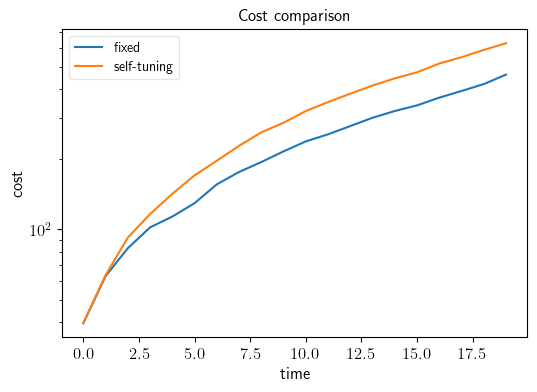
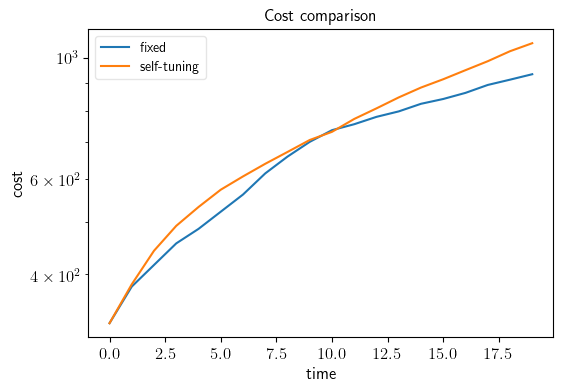
Code dump
Need to restructure code for architecture size

diff --git a/greedy_architecture_combined.py b/greedy_architecture_combined.py
@@ -41,19 +41,22 @@ class System:
         self.graph_initialize(graph_model)
         self.architecture = {'B': {}, 'C': {}}
         self.metric_model = {'type1': 'x', 'type2': 'scalar', 'type3': 'scalar'}
-        self.trajectory = {'X0': np.identity(self.dynamics['number_of_nodes']),
+        self.trajectory = {'X0': 10*np.identity(self.dynamics['number_of_nodes']),
                            'x': [], 'x_estimate': [], 'enhanced': [], 'u': [], 'error': [],
                            'cost': {'running': 0, 'switching': 0, 'control': 0, 'stage': 0, 'predicted': [], 'true': []},
-                           'P': [], 'E': [], 'P_enhanced': []}
+                           'P': 0, 'E': 0, 'P_enhanced': []}
         self.additive = {'W': 0.5*np.identity(self.dynamics['number_of_nodes']),
                          'V': 0.5*np.identity(self.dynamics['number_of_nodes'])}
+        self.simulation_parameters = {'T_sim': 100, 'T_predict': 30}
         self.initialize_initial_conditions(initial_conditions)
         self.noise = {}
         self.initialize_architecture(architecture)
-        if additive is not None:
-            self.initialize_additive_noise(additive)
-        self.enhanced_system_matrix()
-        self.model_name = "model_n"+str(self.dynamics['number_of_nodes'])+"_rho"+str(np.round(self.dynamics['rho'], decimals=2))
+        self.architecture['C']['cost']['R1'] = self.additive['V']
+        self.architecture['C']['cost']['Q'] = self.additive['W']
+        # if additive is not None:
+        #     self.initialize_additive_noise(additive)
+        # self.enhanced_system_matrix()
+        self.model_name = "model_n"+str(self.dynamics['number_of_nodes'])+"_rho"+str(np.round(self.dynamics['rho'], decimals=3))
 
     def graph_initialize(self, graph_model):
         connected_network_check = False
@@ -82,15 +85,17 @@ class System:
             self.dynamics['Adj'] += np.identity(self.dynamics['number_of_nodes'])
         self.dynamics['A'] = self.dynamics['Adj'] * graph_model['rho'] / np.max(np.abs(np.linalg.eigvals(self.dynamics['Adj'])))
         self.dynamics['rho'] = graph_model['rho']
+        self.dynamics['n_unstable'] = sum([1 for i in np.linalg.eigvals(self.dynamics['A']) if i >= 1])
 
     def initialize_architecture(self, architecture):
         architecture_model = {'min': 1, 'max': self.dynamics['number_of_nodes'],
                               'cost': {'Q': np.identity(self.dynamics['number_of_nodes']),
                                        'R1': np.identity(self.dynamics['number_of_nodes']),
-                                       'R2': 1,
-                                       'R3': 1},
+                                       'R2': 0,
+                                       'R3': 0},
                               'active': [],
                               'matrix': np.zeros((self.dynamics['number_of_nodes'], self.dynamics['number_of_nodes'])),
+                              'indicator': np.zeros(self.dynamics['number_of_nodes']),
                               'available': range(0, self.dynamics['number_of_nodes']),
                               'set': [],
                               'history': [],
@@ -141,13 +146,18 @@ class System:
         if architecture_type is None:
             architecture_type = ['B', 'C']
         for i in architecture_type:
-            self.architecture[i]['matrix'] = np.zeros(
-                (self.dynamics['number_of_nodes'], self.dynamics['number_of_nodes']))
+            self.architecture[i]['matrix'] = np.zeros((self.dynamics['number_of_nodes'], len(self.architecture[i]['active'])))
+            self.architecture[i]['indicator'] = np.zeros(self.dynamics['number_of_nodes'])
             for k in range(0, len(self.architecture[i]['active'])):
                 if i == 'B':
                     self.architecture[i]['matrix'][:, k] = self.architecture[i]['set'][self.architecture[i]['active'][k]]
                 elif i == 'C':
-                    self.architecture[i]['matrix'][k, :] = self.architecture[i]['set'][self.architecture[i]['active'][k]]
+                    self.architecture[i]['matrix'][:, k] = self.architecture[i]['set'][self.architecture[i]['active'][k]]
+                else:
+                    raise Exception('Check architecture type')
+                self.architecture[i]['indicator'][self.architecture[i]['active'][k]] = 1
+            if i == 'C':
+                self.architecture[i]['matrix'] = self.architecture[i]['matrix'].T
 
     def random_architecture(self, architecture_type=None, n_select=None):
         if architecture_type is None:
@@ -163,14 +173,14 @@ class System:
         for i in architecture_type:
             self.architecture[i]['history'] = [self.architecture[i]['active']]
 
-    def initialize_additive_noise(self, additive):
-        if additive == "normal":
-            self.additive = {'W': np.identity(self.dynamics['number_of_nodes']),
-                             'V': np.identity(self.dynamics['number_of_nodes'])}
-        else:
-            if additive is not None:
-                for i in additive:
-                    self.additive[i] = additive[i]
+    # def initialize_additive_noise(self, additive):
+    #     if additive == "normal":
+    #         self.additive = {'W': np.identity(self.dynamics['number_of_nodes']),
+    #                          'V': np.identity(self.dynamics['number_of_nodes'])}
+    #     else:
+    #         if additive is not None:
+    #             for i in additive:
+    #                 self.additive[i] = additive[i]
 
     def initialize_initial_conditions(self, initial_conditions=None):
         if initial_conditions is not None and 'X0' in initial_conditions:
@@ -185,6 +195,7 @@ class System:
 
     def noise_gen(self):
         self.noise['w'] = np.random.default_rng().multivariate_normal(np.zeros(self.dynamics['number_of_nodes']), self.additive['W'])
+        # self.noise['v'] = np.random.default_rng().multivariate_normal(np.zeros(self.dynamics['number_of_nodes']), np.diag(self.architecture['C']['indicator']) @ self.additive['V'])
         self.noise['v'] = np.random.default_rng().multivariate_normal(np.zeros(self.dynamics['number_of_nodes']), self.additive['V'])
         self.noise['enhanced_vector'] = np.concatenate((self.noise['w'], self.noise['v']))
 
@@ -213,42 +224,54 @@ class System:
             [self.dynamics['A'], -BK],
             [LC @ self.dynamics['A'], self.dynamics['A'] - BK - (LC @ self.dynamics['A'])]])
         self.noise['enhanced_noise_matrix'] = np.block([
-            [np.identity(self.dynamics['number_of_nodes']), np.zeros((self.dynamics['number_of_nodes'], self.dynamics['number_of_nodes']))],
-            [LC, LC]])
-        self.noise['enhanced_noise_expectation'] = self.noise['enhanced_noise_matrix'].T @ np.block([
-            [self.additive['W'], np.zeros((self.dynamics['number_of_nodes'], self.dynamics['number_of_nodes']))],
-            [np.zeros((self.dynamics['number_of_nodes'], self.dynamics['number_of_nodes'])), self.additive['V']]
-            ]) @ self.noise['enhanced_noise_matrix']
+            [np.identity(self.dynamics['number_of_nodes']), np.zeros((len(self.architecture['C']['active']), self.dynamics['number_of_nodes']))],
+            [LC, self.architecture['C']['gain']]])
+        self.noise['enhanced_noise_expectation'] = self.noise['enhanced_noise_matrix'] @ np.block([
+            [self.additive['W'], np.zeros((self.dynamics['number_of_nodes'], len(self.architecture['C']['active'])))],
+            [np.zeros((len(self.architecture['C']['active']), self.dynamics['number_of_nodes'])), self.additive['V'][self.architecture['C']['active'], :][:, self.architecture['C']['active']]]
+            ]) @ self.noise['enhanced_noise_matrix'].T
         self.dynamics['enhanced_stage_cost'] = np.block([
             [self.architecture['B']['cost']['Q'], np.zeros((self.dynamics['number_of_nodes'], self.dynamics['number_of_nodes']))],
-            [np.zeros((self.dynamics['number_of_nodes'], self.dynamics['number_of_nodes'])), self.architecture['B']['gain'].T @ self.architecture['B']['cost']['R1'] @ self.architecture['B']['gain']]])
+            [np.zeros((self.dynamics['number_of_nodes'], self.dynamics['number_of_nodes'])), self.architecture['B']['gain'].T @ self.architecture['B']['cost']['R1'][self.architecture['B']['active'], :][:, self.architecture['B']['active']] @ self.architecture['B']['gain']]])
         self.dynamics['enhanced_terminal_cost'] = np.block([
             [self.architecture['B']['cost']['Q'], np.zeros((self.dynamics['number_of_nodes'], self.dynamics['number_of_nodes']))],
             [np.zeros((self.dynamics['number_of_nodes'], self.dynamics['number_of_nodes'])), np.zeros((self.dynamics['number_of_nodes'], self.dynamics['number_of_nodes']))]])
+        # self.dynamics['enhanced_stage_cost'] = np.block([
+        #     [self.architecture['B']['cost']['Q'] + np.identity(self.dynamics['number_of_nodes']), -1*np.identity(self.dynamics['number_of_nodes'])],
+        #     [-1*np.identity(self.dynamics['number_of_nodes']), np.identity(self.dynamics['number_of_nodes']) + self.architecture['B']['gain'].T @ self.architecture['B']['cost']['R1'] @ self.architecture['B']['gain']]])
+        # self.dynamics['enhanced_terminal_cost'] = np.block([
+        #     [self.architecture['B']['cost']['Q'] + np.identity(self.dynamics['number_of_nodes']), -1*np.identity(self.dynamics['number_of_nodes'])],
+        #     [-1*np.identity(self.dynamics['number_of_nodes']), np.identity(self.dynamics['number_of_nodes'])]])
 
-    def optimal_feedback_control_cost_gain(self):
-        self.architecture['B']['gain'] = np.linalg.inv(self.architecture['B']['matrix'].T @ self.trajectory['P'][-1] @ self.architecture['B']['matrix'] + self.architecture['B']['cost']['R1']) @ self.architecture['B']['matrix'].T @ self.trajectory['P'][-1] @ self.dynamics['A']
+    def optimal_feedback_control_gain(self):
+        self.architecture['B']['gain'] = np.linalg.inv(self.architecture['B']['matrix'].T @ self.trajectory['P'] @ self.architecture['B']['matrix'] + self.architecture['B']['cost']['R1'][self.architecture['B']['active'], :][:, self.architecture['B']['active']]) @ self.architecture['B']['matrix'].T @ self.trajectory['P'] @ self.dynamics['A']
 
     def optimal_feedback_estimation_gain(self):
-        self.architecture['C']['gain'] = self.trajectory['E'][-1] @ self.architecture['C']['matrix'].T @ np.linalg.inv(self.architecture['C']['matrix'] @ self.trajectory['E'][-1] @ self.architecture['C']['matrix'].T + self.architecture['C']['cost']['R1'])
+        self.architecture['C']['gain'] = self.trajectory['E'] @ self.architecture['C']['matrix'].T @ np.linalg.inv(self.architecture['C']['matrix'] @ self.trajectory['E'] @ self.architecture['C']['matrix'].T + self.architecture['C']['cost']['R1'][self.architecture['C']['active'], :][:, self.architecture['C']['active']])
 
     def optimal_control_feedback_wrapper(self):
-        self.trajectory['P'].append(scp.linalg.solve_discrete_are(self.dynamics['A'], self.architecture['B']['matrix'], self.architecture['B']['cost']['Q'], self.architecture['B']['cost']['R1']))
-        self.optimal_feedback_control_cost_gain()
+        self.trajectory['P'] = scp.linalg.solve_discrete_are(self.dynamics['A'], self.architecture['B']['matrix'], self.architecture['B']['cost']['Q'], self.architecture['B']['cost']['R1'][self.architecture['B']['active'], :][:, self.architecture['B']['active']])
+        self.optimal_feedback_control_gain()
+
+    # def filter_cost_matrix(self, architecture_type):
+    #     R = for i in self.architecture[architecture_type]['active']:
 
     def optimal_estimation_feedback_wrapper(self):
-        self.trajectory['E'].append(scp.linalg.solve_discrete_are(self.dynamics['A'].T, self.architecture['C']['matrix'].T, self.additive['W'], self.additive['V']))
+        self.trajectory['E'] = scp.linalg.solve_discrete_are(self.dynamics['A'].T, self.architecture['C']['matrix'].T, self.architecture['C']['cost']['Q'], self.architecture['C']['cost']['R1'][self.architecture['C']['active'], :][:, self.architecture['C']['active']])
         self.optimal_feedback_estimation_gain()
 
-    def enhanced_lyapunov_control_cost(self, T_sim=30):
+    def enhanced_lyapunov_control_cost(self):
         self.trajectory['cost']['control'] = 0
         self.trajectory['P_enhanced'] = [dc(self.dynamics['enhanced_terminal_cost'])]
-        for t in range(0, T_sim):
+        for t in range(0, self.simulation_parameters['T_predict']):
             self.trajectory['cost']['control'] += np.trace(self.trajectory['P_enhanced'][-1] @ self.noise['enhanced_noise_expectation'])
             self.trajectory['P_enhanced'].append(self.dynamics['enhanced'].T @ self.trajectory['P_enhanced'][-1] @ self.dynamics['enhanced'] + self.dynamics['enhanced_stage_cost'])
         self.trajectory['cost']['control'] += np.trace(self.trajectory['P_enhanced'][-1] @ self.noise['enhanced_noise_expectation'])
         estimate_vector = np.concatenate((self.trajectory['x_estimate'][-1], self.trajectory['x_estimate'][-1]))
         self.trajectory['cost']['control'] += np.squeeze(estimate_vector.T @ self.trajectory['P_enhanced'][-1] @ estimate_vector)
+
+    # def enhanced_scipylyapunov_wrapper(self):
+    #     self.trajectory['P_enhanced'] = scipy.linalg.solve_discrete_lyapunov(self.dynamics['enhanced'], self.dynamics['enhanced_stage_cost'])
 
     def enhanced_stage_control_cost(self):
         self.trajectory['cost']['stage'] = np.squeeze(self.trajectory['enhanced'][-1].T @ self.dynamics['enhanced_stage_cost'] @ self.trajectory['enhanced'][-1])
@@ -265,27 +288,25 @@ class System:
         self.trajectory['cost']['switching'] = 0
         architecture_type = ['B', 'C']
         for a in architecture_type:
-            active_vector = np.zeros(self.dynamics['number_of_nodes'])
             history_vector = np.zeros(self.dynamics['number_of_nodes'])
-            for i in self.architecture[a]['active']:
-                active_vector[i] = 1
             if len(self.architecture[a]['history']) > 0:
                 for i in self.architecture[a]['history'][-1]:
                     history_vector[i] = 1
             if self.metric_model['type2'] == 'matrix':
-                self.trajectory['cost']['running'] += active_vector.T @ self.architecture[a]['cost']['R2'] @ active_vector
+                self.trajectory['cost']['running'] += self.simulation_parameters['T_predict']*np.squeeze(self.architecture[a]['indicator'].T @ self.architecture[a]['cost']['R2'] @ self.architecture[a]['indicator'])
             elif self.metric_model['type2'] == 'scalar':
-                self.trajectory['cost']['running'] += self.architecture[a]['cost']['R2'] * np.inner(active_vector, active_vector)
+                self.trajectory['cost']['running'] += self.simulation_parameters['T_predict']*self.architecture[a]['cost']['R2'] * np.inner(self.architecture[a]['indicator'], self.architecture[a]['indicator'])
             else:
                 raise Exception('Check Metric for Type 2 - Running Costs')
             if self.metric_model['type3'] == 'matrix':
-                self.trajectory['cost']['switching'] += (active_vector - history_vector).T @ self.architecture[a]['cost']['R3'] @ (active_vector - history_vector)
+                self.trajectory['cost']['switching'] += self.simulation_parameters['T_predict']*np.squeeze((self.architecture[a]['indicator'] - history_vector).T @ self.architecture[a]['cost']['R3'] @ (self.architecture[a]['indicator'] - history_vector))
             elif self.metric_model['type3'] == 'scalar':
-                self.trajectory['cost']['switching'] += self.architecture[a]['cost']['R3'] * np.linalg.norm(active_vector - history_vector, ord=1)
+                self.trajectory['cost']['switching'] += self.simulation_parameters['T_predict']*self.architecture[a]['cost']['R3'] * np.linalg.norm(self.architecture[a]['indicator'] - history_vector, ord=1)
             else:
                 raise Exception('Check Metric for Type 2 - Running Costs')
 
     def cost_wrapper_enhanced_prediction(self):
+        self.architecture_active_to_matrix()
         self.optimal_estimation_feedback_wrapper()
         self.optimal_control_feedback_wrapper()
         self.architecture_costs()
@@ -298,6 +319,7 @@ class System:
             self.trajectory['cost']['predicted'][-1] += self.trajectory['cost'][i]
 
     def cost_wrapper_enhanced_true(self):
+        self.architecture_active_to_matrix()
         self.optimal_estimation_feedback_wrapper()
         self.optimal_control_feedback_wrapper()
         self.architecture_costs()
@@ -336,6 +358,8 @@ class System:
         ax1 = fig.add_subplot(gs[0, 0])
         netx.draw_networkx(sys_plot['G'], ax=ax1, pos=sys_plot['pos'], node_color=sys_plot['node_color'])
         ax1.set_aspect('equal')
+        ax1.set_title(self.model_name)
+        plt.savefig("images/"+self.model_name+"_system.png")
         plt.show()
 
     def network_matrix(self):
@@ -384,6 +408,7 @@ class System:
         ax_trajectory.set_ylabel('Error Norm')
         ax_trajectory.set_xlabel('time')
         ax_trajectory.set_title('Error Trajectory')
+        fig.suptitle(self.model_name)
         plt.savefig("images/"+self.model_name+"_trajectory.png")
         plt.show()
 
@@ -408,9 +433,9 @@ class System:
                 C_hist[i] += 1
         ax_B.imshow(B_list)
         ax_C.imshow(C_list)
-        ax_Bhist.hist(B_hist, bins=self.dynamics['number_of_nodes'], range=(0, self.dynamics['number_of_nodes']), orientation="horizontal")
-        ax_Chist.hist(C_hist, bins=self.dynamics['number_of_nodes'], range=(0, self.dynamics['number_of_nodes']), orientation="horizontal")
-        ax_B.set_ylabel('Sensor ID/Node')
+        ax_Bhist.barh(range(0, self.dynamics['number_of_nodes']), B_hist)
+        ax_Chist.barh(range(0, self.dynamics['number_of_nodes']), C_hist)
+        ax_B.set_ylabel('Actuator ID/Node')
         ax_C.set_ylabel('Sensor ID/Node')
         ax_C.set_xlabel('Time')
         ax_B.set_title('B')
@@ -420,6 +445,7 @@ class System:
         ax_C.set_title('Sensor Architecture History')
         ax_B.tick_params(axis="x", labelbottom=False)
         ax_Bhist.tick_params(axis="x", labelbottom=False)
+        fig.suptitle(self.model_name)
         # ax_Bhist.set_xticks(labels=None)
         if f_name is None:
             f_name = "images/"+self.model_name+"_architecture_history.png"

diff --git a/casetest_greedy_architecture_combined_singlestep.py b/casetest_greedy_architecture_combined_singlestep.py
@@ -4,8 +4,32 @@ import numpy as np
 import greedy_architecture_combined as gac
 
 if __name__ == "__main__":
-    S = gac.System(architecture={'rand': True})
-    S.display_active_architecture()
+    S = gac.System(graph_model={'number_of_nodes': 5, 'rho': 1.1}, architecture={'rand': 1})
+    print(S.architecture['C']['active'])
+    print(S.architecture['C']['indicator'])
+    # for i in range(0, 1000):
+    # print(i)
+    # S = gac.System(graph_model={'number_of_nodes': 5, 'rho': 1.1}, architecture={'rand': 1})
+    # S.optimal_estimation_feedback_wrapper()
+    # S.optimal_control_feedback_wrapper()
+    # S.enhanced_system_matrix()
+    # S.enhanced_scipylyapunov_wrapper()
+    # if np.min(np.linalg.eigvals(S.trajectory['P'])) <= 0 or np.min(np.linalg.eigvals(S.trajectory['E'])) <= 0 or np.min(np.linalg.eigvals(S.trajectory['P_enhanced'])) <= 0:
+    #     print('n_unstable:', S.dynamics['n_unstable'])
+    #     S.display_active_architecture()
+    #     print(np.linalg.eigvals(S.trajectory['P']))
+    #     print(np.linalg.eigvals(S.trajectory['E']))
+    #     print(np.linalg.eigvals(S.trajectory['P_enhanced']))
+    #     break
+    # S.cost_wrapper_enhanced_prediction()
+    # print(S.trajectory['P'])
+    # print(S.architecture['B']['gain'])
+    # print(S.architecture['B']['matrix'])
+    # print(S.architecture['B']['matrix']@S.architecture['B']['gain'])
+    # plt.imshow(S.dynamics['enhanced'])
+    # plt.colorbar()
+    # plt.show()
+    # print(S.dynamics['enhanced'])
 
     # print(S.architecture['B']['cost'])
     # print(S.architecture['C']['cost'])
@@ -15,7 +39,7 @@ if __name__ == "__main__":
     # # for i in S.trajectory:
     # #     print(i, S.trajectory[i])
     #
-    greedy = gac.greedy_architecture_selection(S, no_select=True)
+    # greedy = gac.greedy_architecture_selection(S, no_select=True)
     # greedy = gac.greedy_architecture_rejection(S, no_reject=True)
 
     # greedy = gac.greedy_simultaneous(S, iterations=None, changes_per_iteration=1)
@@ -23,4 +47,4 @@ if __name__ == "__main__":
 
     # for i in greedy['value_history']:
     #     print(i)
-    greedy['work_set'].display_active_architecture()
+    # greedy['work_set'].display_active_architecture()

diff --git a/casetest_greedy_architecture_combined_multistep.py b/casetest_greedy_architecture_combined_multistep.py
@@ -4,8 +4,10 @@ from copy import deepcopy as dc
 
 if __name__ == "__main__":
     # S = gac.System(graph_model={'type': 'ER', 'rho': 0.8}, architecture={'rand': True})
-    S = gac.System(graph_model={'number_of_nodes': 30, 'rho': 1.05}, architecture={'rand': 2})
-    T_sim = 20
+    S = gac.System(graph_model={'number_of_nodes': 50, 'rho': 1.01}, architecture={'rand': 3})
+    S.architecture['B']['max'] = 5
+    S.architecture['C']['max'] = 5
+    T_sim = 100
 
     print('\n Fixed architecture')
     S_fixed = dc(S)
@@ -14,9 +16,8 @@ if __name__ == "__main__":
         print("\r t:" + str(t), end="")
         S_fixed.cost_wrapper_enhanced_true()
         S_fixed.system_one_step_update_enhanced()
-    # S_fixed.display_system()
 
-    print('\n Optimal architecture')
+    print('\n Self-Tuning architecture')
     S_tuning = dc(S)
     S_tuning.model_name = "selftuning" + S_tuning.model_name
     for t in range(0, T_sim):
@@ -24,10 +25,12 @@ if __name__ == "__main__":
         S_tuning.cost_wrapper_enhanced_true()
         S_tuning.system_one_step_update_enhanced()
         S_tuning = dc(gac.greedy_simultaneous(S_tuning, iterations=1, changes_per_iteration=1)['work_set'])
-    # S_tuning.display_system()
 
     print('\n')
+    # S_fixed.display_system()
+    S_fixed.display_active_architecture()
     S_tuning.plot_architecture_history()
     S_fixed.plot_trajectory_history()
+    # S_tuning.display_system()
     S_tuning.plot_trajectory_history()
     gac.cost_plots([S_fixed.trajectory['cost']['true'], S_tuning.trajectory['cost']['true']], S_tuning.model_name)
